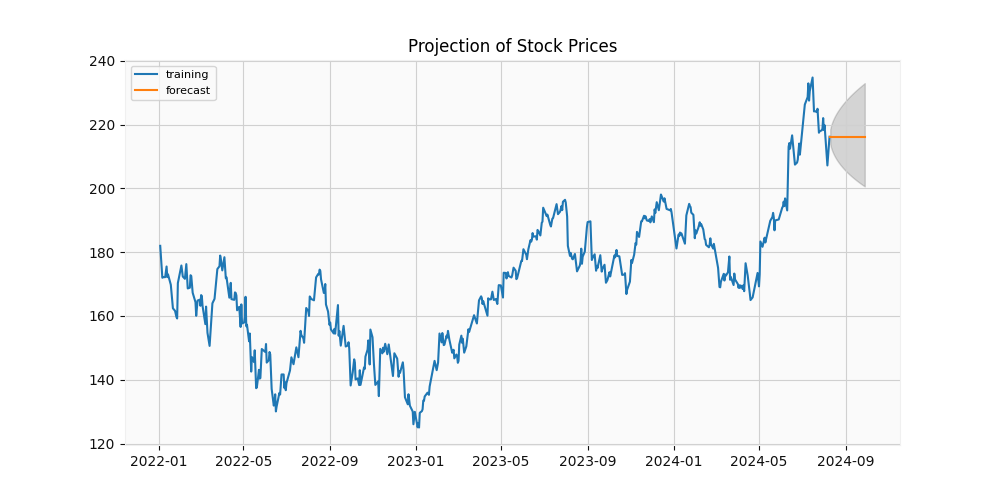
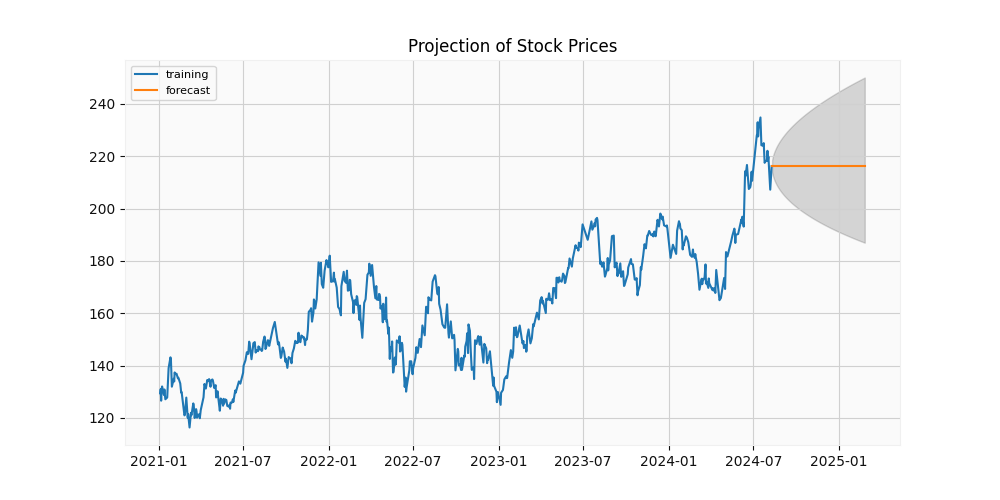
updated ml for app py

diff --git a/app.py b/app.py
@@ -261,12 +261,12 @@ def stockDisplay():
             try:
                 stock_data = yf.download(
                     stock_code,
-                    start="2022-01-01",
+                    start="2021-01-01",
                     end=datetime.now().strftime("%Y-%m-%d"),
                 )
                 print("Download completed!")
-                forecast_using_arima(stock_data, forecast_days, no_stats_log=True)
                 generate_candleStick_plot_for_recommandations(stock_data)
+                forecast_using_arima(stock_data, forecast_days, no_stats_log=True)
                 return jsonify({"message": "Chart Generated successfully!"})
             except Exception as e:
                 print(f"Error fetching data: {e}")
@@ -362,14 +362,63 @@ def forecast_using_arima(df, days_to_forecast, no_stats_log=False):
 
 
 def generate_candleStick_plot_for_recommandations(stock_data):
-    import time
+
+    short_window = 50
+    long_window = 200
+
+    rec_df = stock_data[200:].copy()
+
+    # Calculate SMAs
+    rec_df["SMA50"] = stock_data[50:]["Close"].rolling(window=short_window).mean()
+    rec_df["SMA200"] = stock_data["Close"].rolling(window=long_window).mean()
+
+    # Initialize signal columns
+    rec_df["Buy_Signal_Price"] = np.nan
+    rec_df["Sell_Signal_Price"] = np.nan
+
+    # Generate signals based on SMA crossovers
+    for i in range(1, len(rec_df)):
+        if (
+            rec_df["SMA50"].iloc[i] > rec_df["SMA200"].iloc[i]
+            and rec_df["SMA50"].iloc[i - 1] <= rec_df["SMA200"].iloc[i - 1]
+        ):
+            rec_df["Buy_Signal_Price"].iloc[i] = rec_df["Close"].iloc[i]
+        elif (
+            rec_df["SMA50"].iloc[i] < rec_df["SMA200"].iloc[i]
+            and rec_df["SMA50"].iloc[i - 1] >= rec_df["SMA200"].iloc[i - 1]
+        ):
+            rec_df["Sell_Signal_Price"].iloc[i] = rec_df["Close"].iloc[i]
+
+    # Plot with mplfinance
+    addplots = [
+        mpf.make_addplot(rec_df["SMA50"], color="blue", label="Short Term SMA (50)"),
+        mpf.make_addplot(rec_df["SMA200"], color="red", label="Long Term SMA (200)"),
+        mpf.make_addplot(
+            rec_df["Buy_Signal_Price"],
+            type="scatter",
+            markersize=100,
+            marker="^",
+            color="green",
+            label="Buy Signal",
+        ),
+        mpf.make_addplot(
+            rec_df["Sell_Signal_Price"],
+            type="scatter",
+            markersize=100,
+            marker="v",
+            color="red",
+            label="Sell Signal",
+        ),
+    ]
 
     mpf.plot(
-        stock_data.tail(100),
+        rec_df,
         type="candle",
         style="yahoo",
         ylabel="Price",
+        addplot=addplots,
         savefig="static/images/trend_analysis_plot.png",
+        title="SMA and Buy/Sell Signals",
     )
 
 
